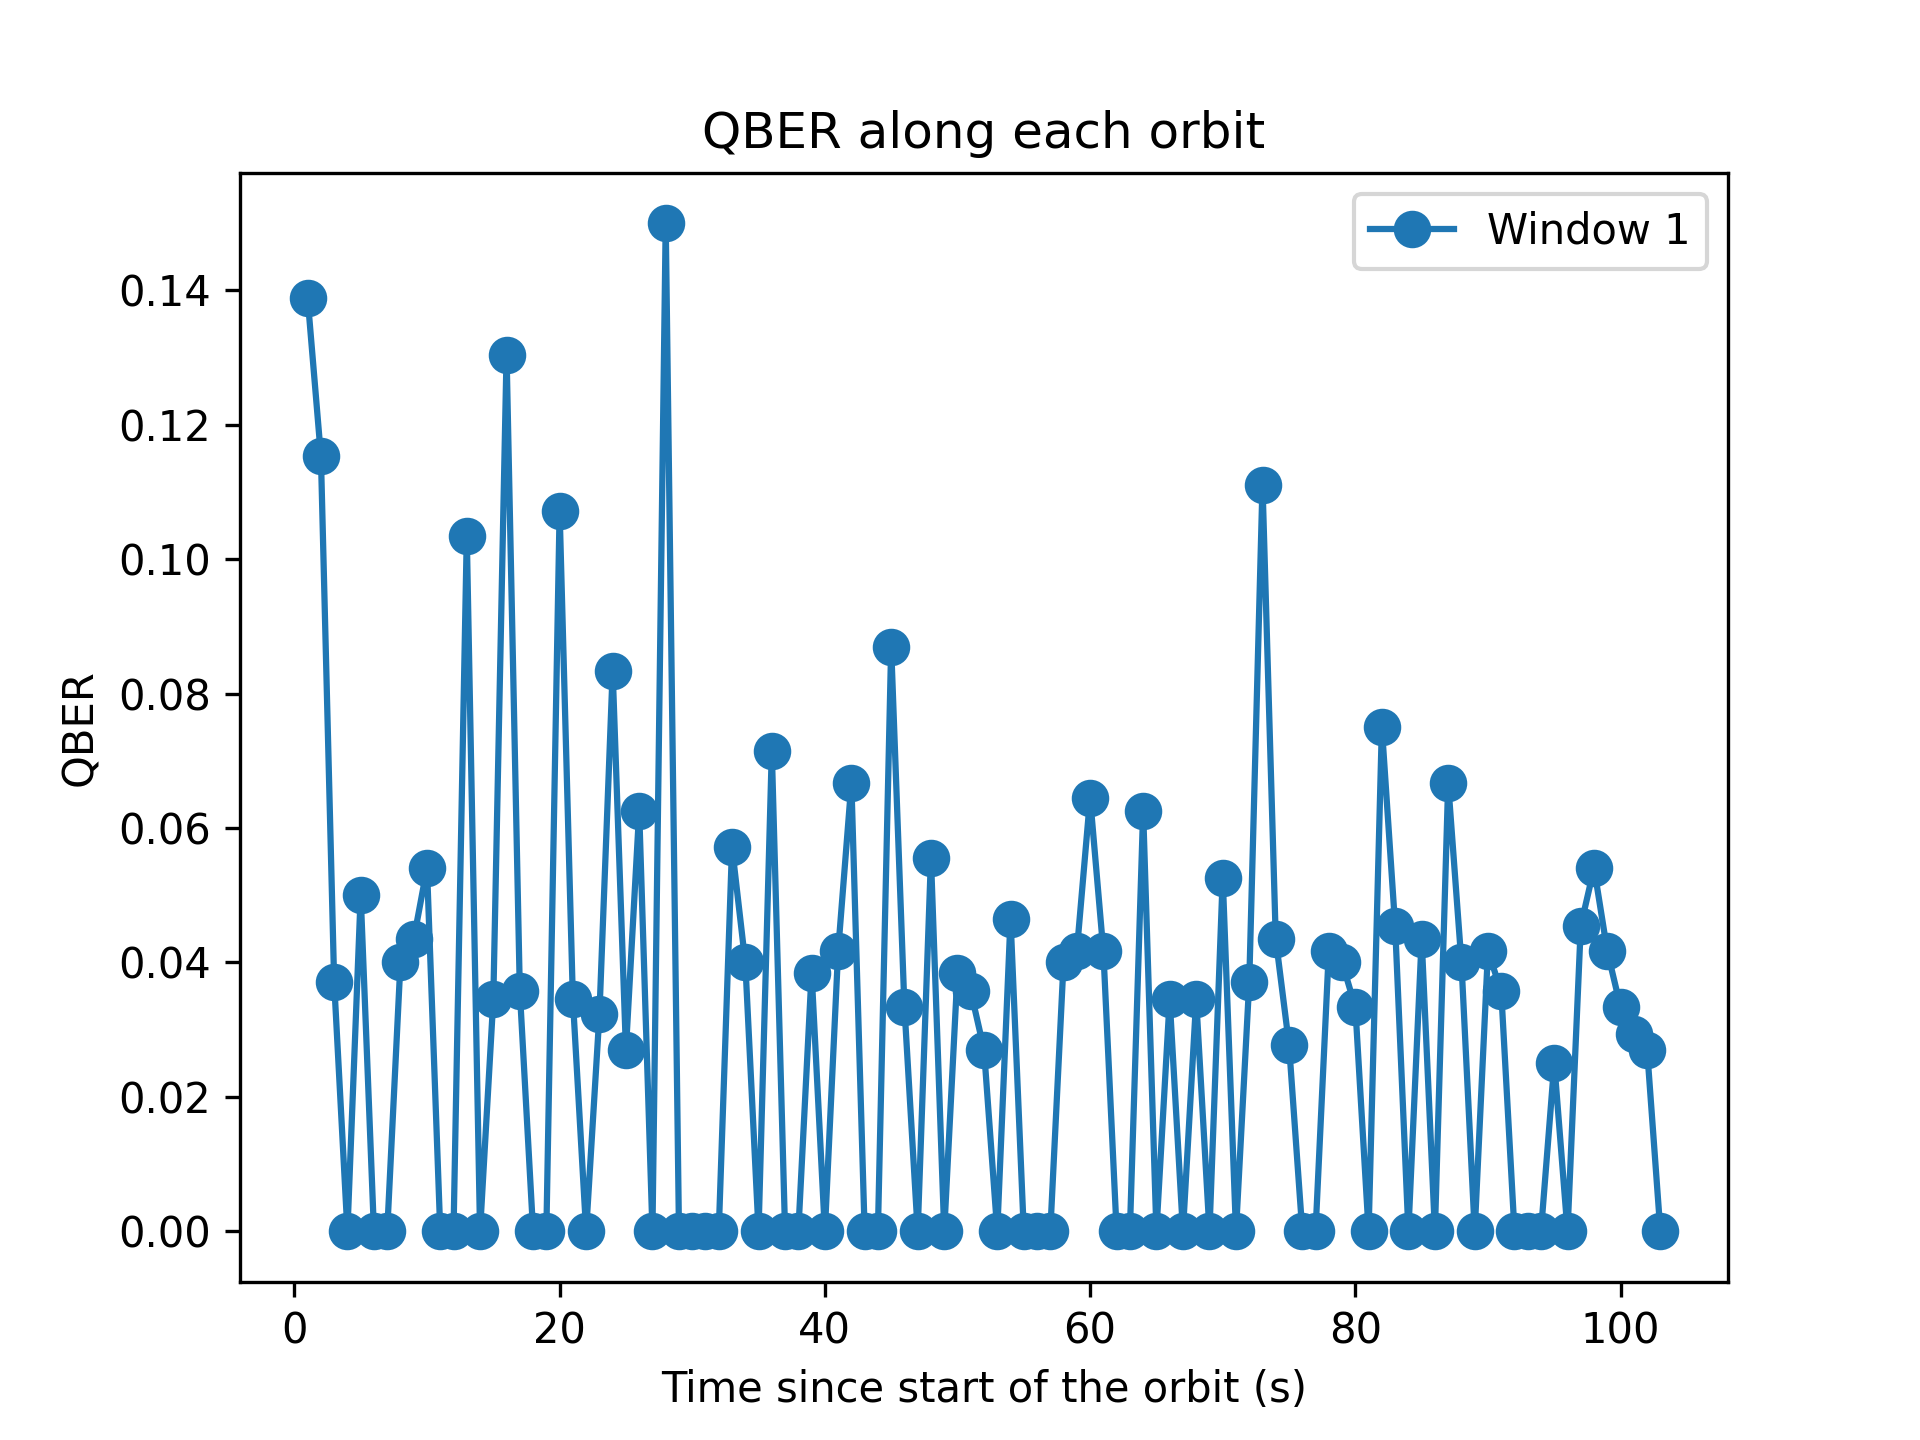
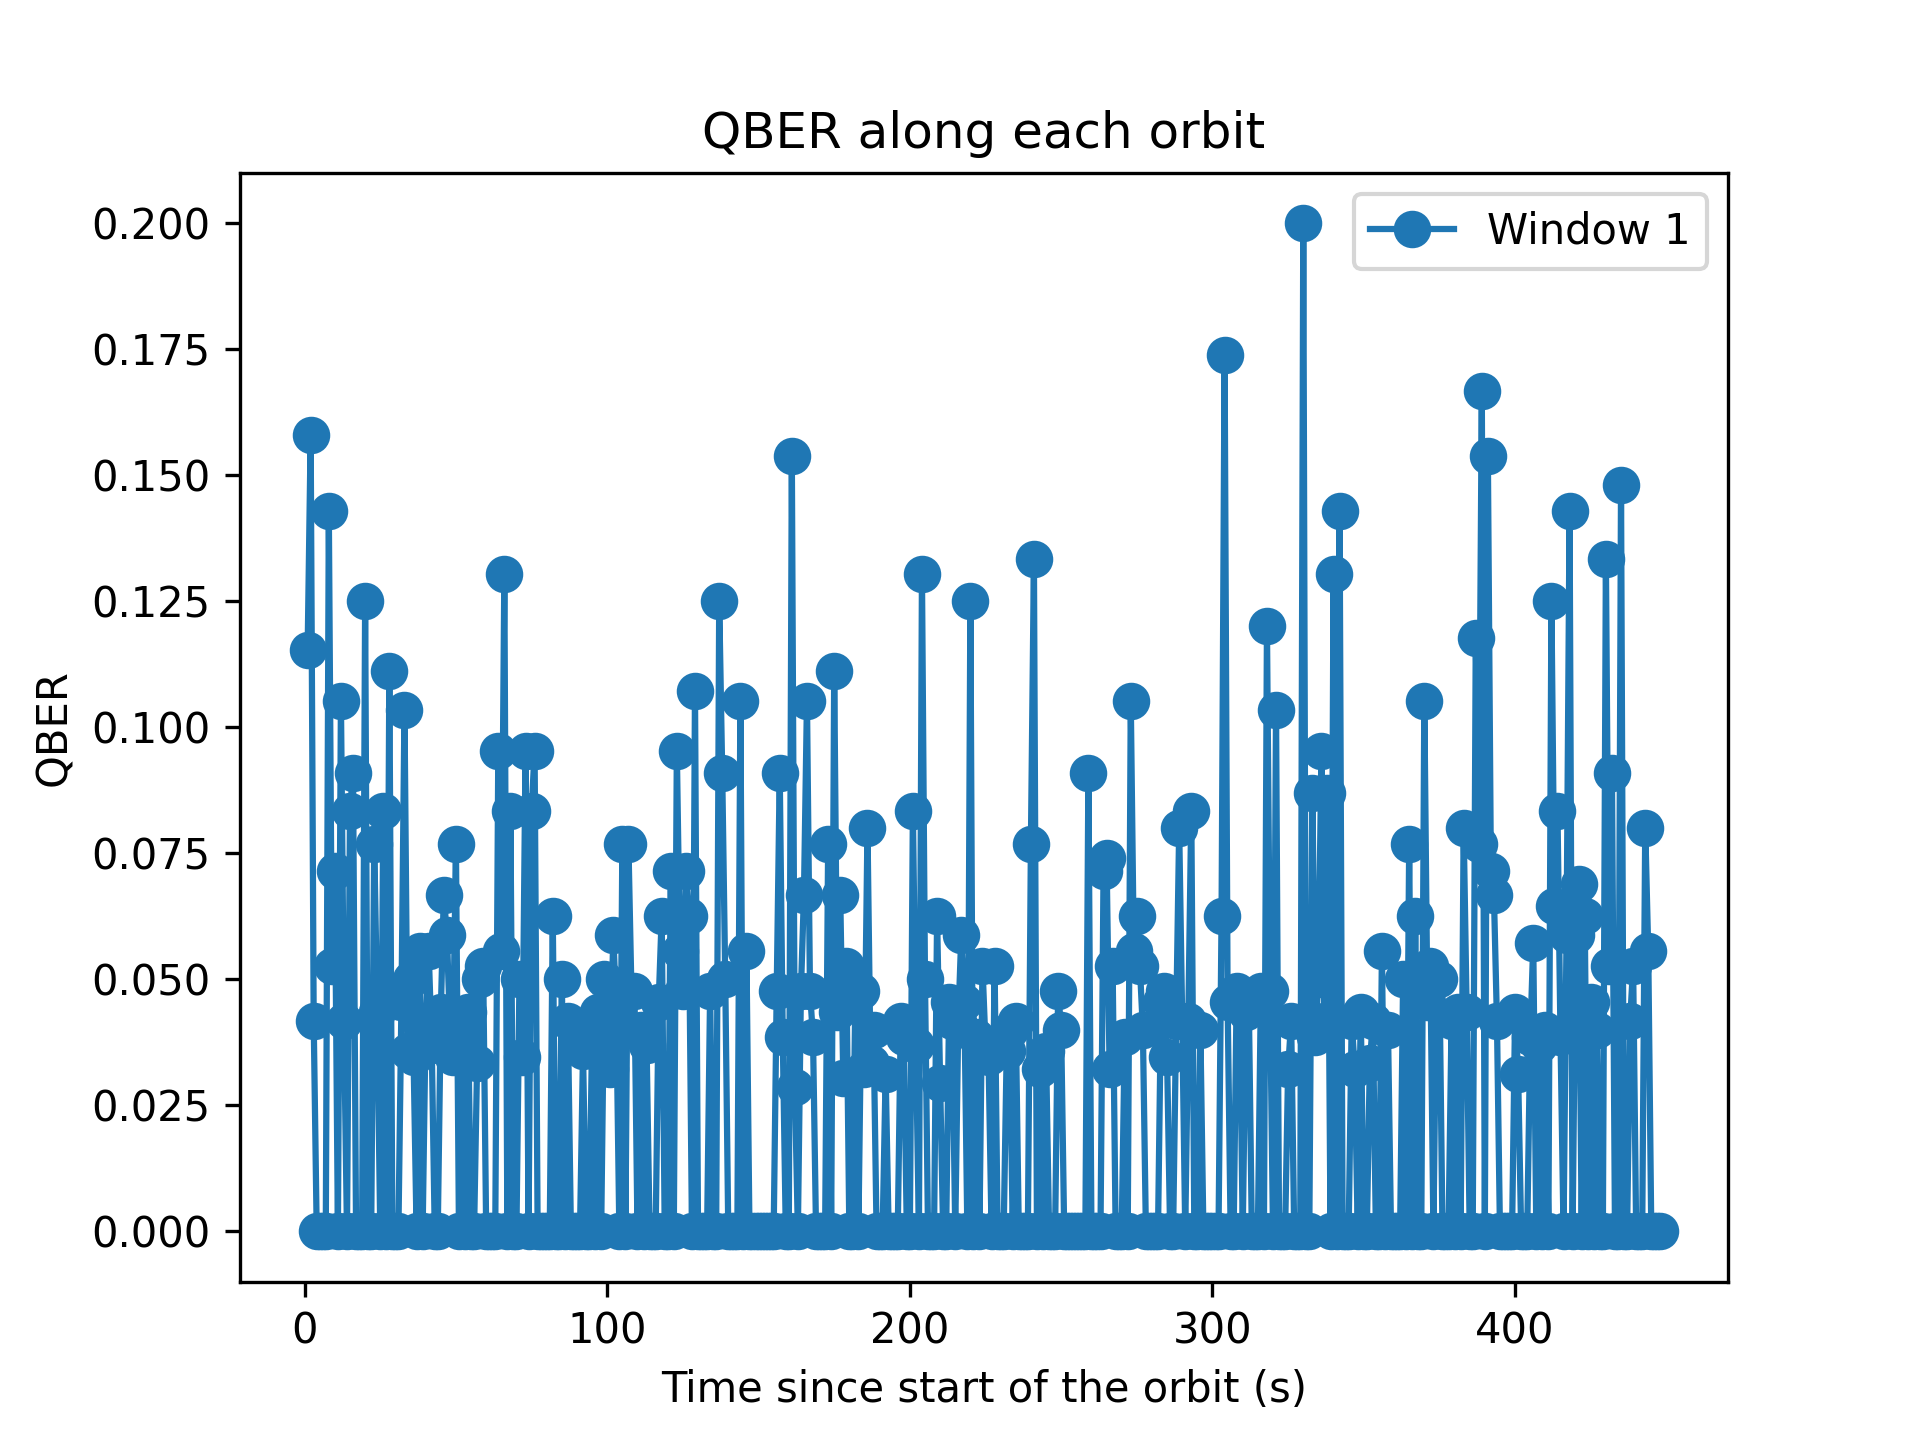
Still some problems with the orbits but stuff is more or less ok

diff --git a/BBM92_simulation.py b/BBM92_simulation.py
@@ -471,7 +471,7 @@ def main():
 
   # Unisci per calcolare il tempo globale
   df_all = pd.concat([df_lijiang, df_delingha], ignore_index=True)
-
+  print(df_all.columns)
   def to_datetime(row):
       return datetime.strptime(
           row["Date"] + " " + row["Time"],
@@ -712,18 +712,18 @@ def main():
     if Alice_orb_dict["SecondsFromStart"][a]<=time_for_off and Bob_orb_dict["SecondsFromStart"][b]<=time_for_off:
       offsets["Distance"].append((Alice_orb_dict["Range"][a]-Bob_orb_dict["Range"][b])/LS)
 #      print( Alice_orb_dict["Range"][a], "  ", Bob_orb_dict["Range"][b])
-      offsets["Update_time"].append(Alice_orb_dict["SecondsFromStart"][a]*10**(12)) ###converting only the offsets in picosecond
+      offsets["Update_time"].append(Alice_orb_dict["SecondsFromStart"][a]*10**(12)+(Alice_orb_dict["Range"][a]/LS)) ### calculating the offsets in picosecond
       a=a+1
       b=b+1
 #      print("AAAAAA both orbits changed at the same time ")
     if Alice_orb_dict["SecondsFromStart"][a]<=time_for_off:
       offsets["Distance"].append((Alice_orb_dict["Range"][a]-Bob_orb_dict["Range"][b])/LS)
-      offsets["Update_time"].append(Alice_orb_dict["SecondsFromStart"][a]*10**(12)) ###converting only the offsets in picoseconds
+      offsets["Update_time"].append(Alice_orb_dict["SecondsFromStart"][a]*10**(12)+(Alice_orb_dict["Range"][a]/LS)) ###converting only the offsets in picoseconds
       a=a+1
 #      print("AAAAAA Alice orbits changed first ")
     if Bob_orb_dict["SecondsFromStart"][b]<=time_for_off:
       offsets["Distance"].append((Alice_orb_dict["Range"][a]-Bob_orb_dict["Range"][b])/LS)
-      offsets["Update_time"].append(Bob_orb_dict["SecondsFromStart"][b]*10**(12)) ###converting only the offsets in picoseconds
+      offsets["Update_time"].append(Bob_orb_dict["SecondsFromStart"][b]*10**(12)+(Alice_orb_dict["Range"][a]/LS)) ###converting only the offsets in picoseconds
       b=b+1
 #      print("AAAAAA Bob orbits changed first ")
     time_for_off=time_for_off+0.01
@@ -806,9 +806,9 @@ def main():
 
     #### finding the offset at start time ###
     for h in range(len(offsets["Distance"])-1):
-      if offsets["Update_time"][h]<=start[w] and  offsets["Update_time"][h+1]>=start[w] :
+      if offsets["Update_time"][h]<=results_Alice["Time"][start_Alice_pp] and  offsets["Update_time"][h+1]>=results_Alice["Time"][start_Alice_pp]:  #start[w] and  offsets["Update_time"][h+1]>=start[w] :
         offset=offsets["Distance"][h]
-        k=h+2
+        k=h+1
         break
     if offset==0:
       print("Problem with individuation of the offset")
@@ -920,7 +920,7 @@ def main():
   plt.figure(2)
   plt.title("Key transmission rate along each orbit")
   for w in range(len(start)):
-    KR_array[w]=KR_array[w][1:]   
+    KR_array[w]=KR_array[w][1:]  
     n_win=w+1
     plt.plot(upd_time_array[w],KR_array[w],marker='o', markersize=8, label=f"Window {n_win}")
     

diff --git a/data_organizer.py b/data_organizer.py
@@ -2,11 +2,11 @@ import re
 import pandas as pd
 
 # 1. Leggi il file
-with open("Fucino_Lario_Sat_Access.txt", "r", encoding="utf-8") as f:
+with open("Lijiang-Micius_Delingha-Micius_Visibility_Windows.txt", "r", encoding="utf-8") as f:
     text = f.read()
 
 # 2. Dividi in due blocchi usando le intestazioni reali del file
-parts = re.split(r"Satellite1 to Lario", text)
+parts = re.split(r"Delingha to Micius", text)
 fucino_block = parts[0]   # Prima parte
 lario_block = parts[1]    # Seconda parte
 
@@ -35,8 +35,8 @@ df_fucino = pd.DataFrame(fucino_data, columns=["Date","Time","Azimuth","Elevatio
 df_lario = pd.DataFrame(lario_data, columns=["Date","Time","Azimuth","Elevation","Range"])
 
 # 6. Esporta in CSV ordinati
-df_fucino.to_csv("fucino_satellite.csv", index=False)
-df_lario.to_csv("lario_satellite.csv", index=False)
+df_fucino.to_csv("lijiang_micius.csv", index=False)
+df_lario.to_csv("delingha_micius.csv", index=False)
 
 print("CSV generati: fucino_satellite.csv e lario_satellite.csv")
 
